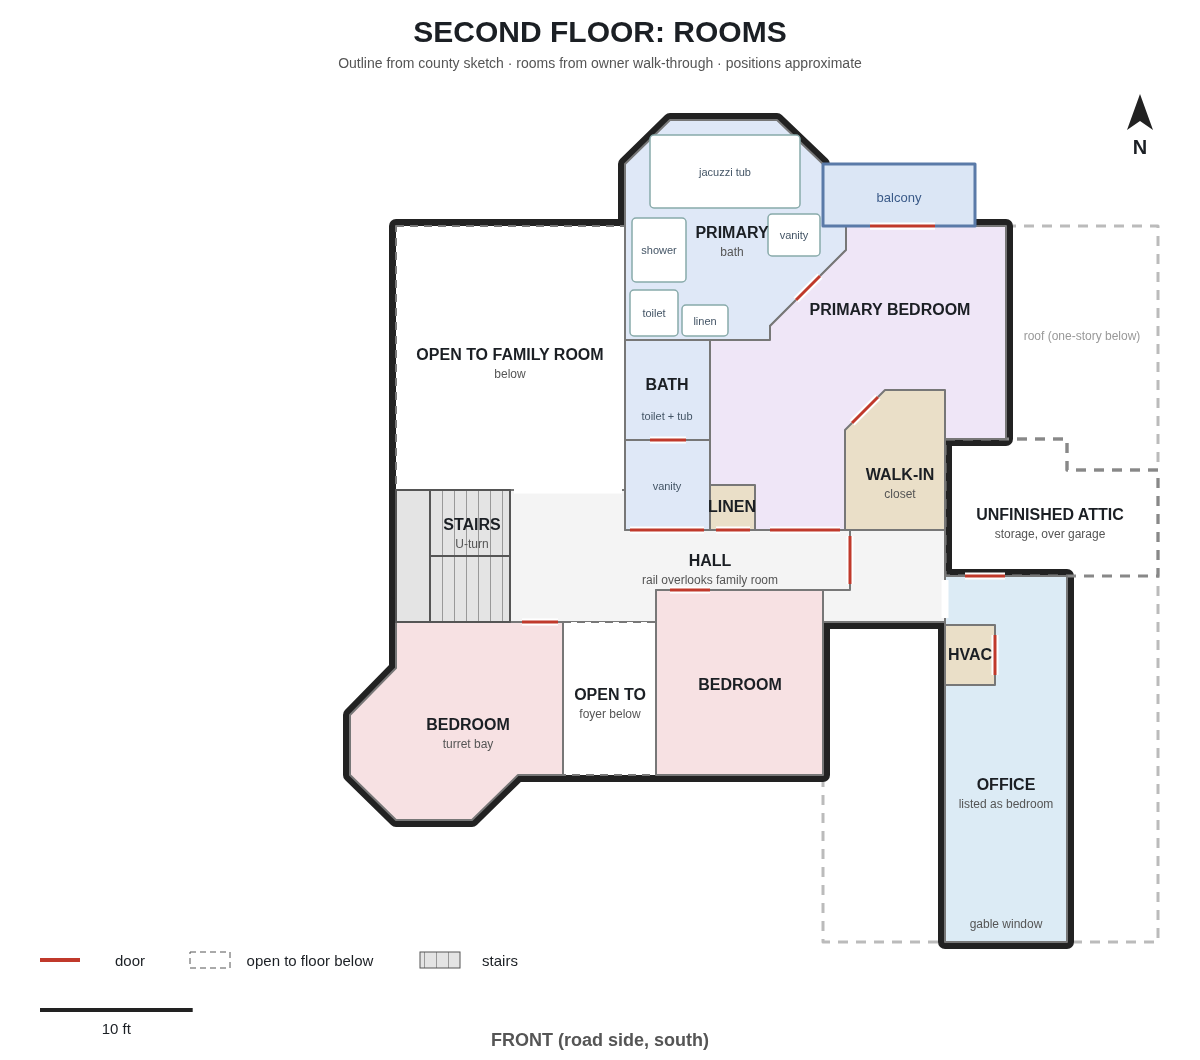
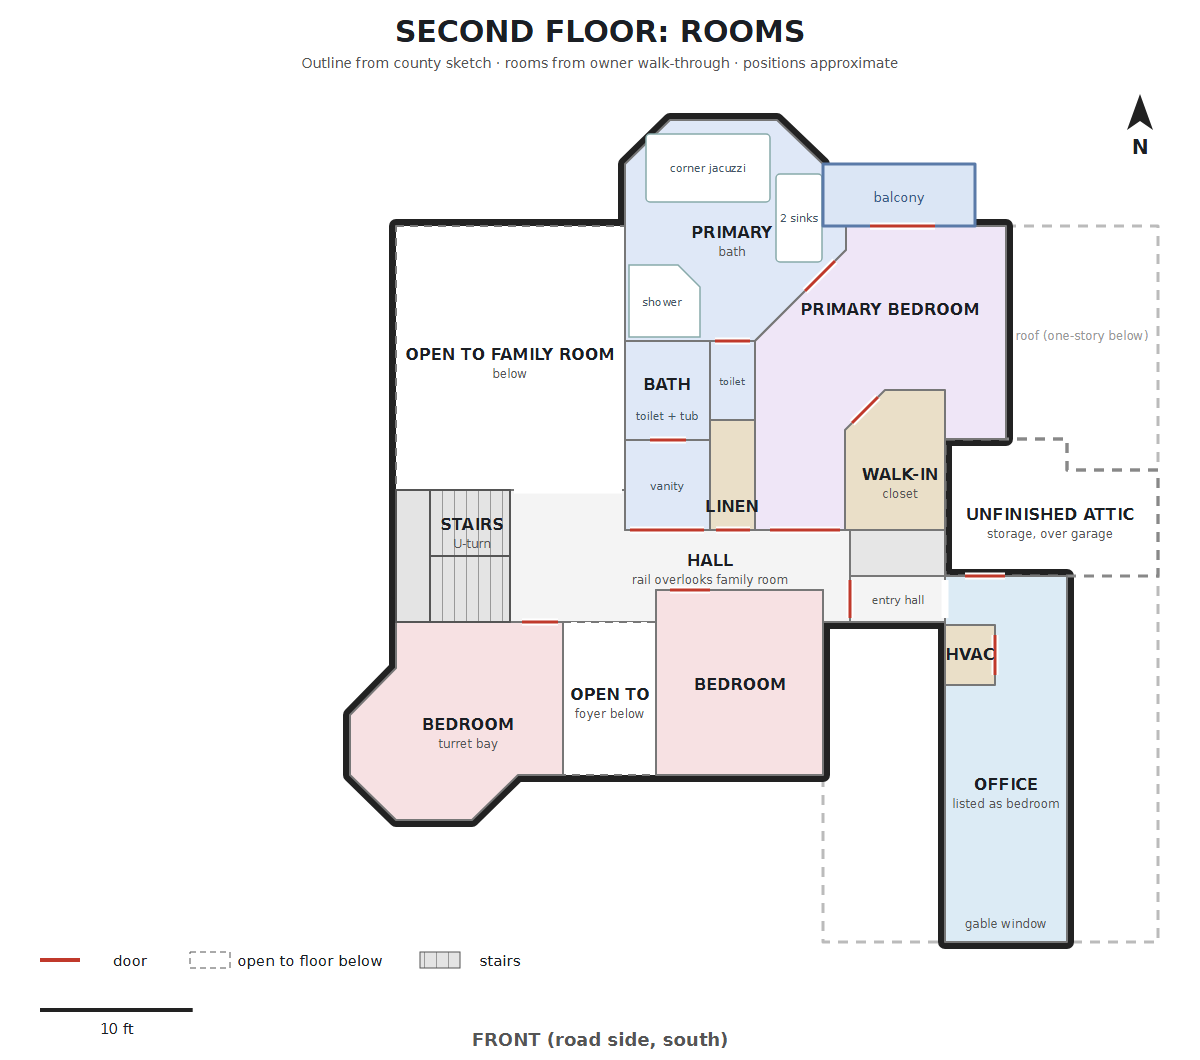
Second floor from Nov 25 photos: straight primary west wall, bath door on angled wall, toilet room, double vanity, narrow office entry hall; upstairs panel directory

diff --git a/index.html b/index.html
@@ -95,17 +95,17 @@
 <section id="floorplans">
   <h2>Floor plans</h2>
   <p>Outside walls traced to scale from the Greene County auditor's building sketch; rooms from the owner's walk-through, the robot vacuum's map and listing photos. North is up; the front of the house (road side) faces south. Room positions are approximate and still being corrected. Tick a layer to light those things up on the plans; tap a marker for its photo and notes.</p>
-  <div id="hm-app" data-v="202611220112">
+  <div id="hm-app" data-v="202611251430">
     <div class="hm-controls"><div id="hm-edit"></div><div id="hm-legend"></div><div id="hm-unplaced"></div></div>
     <div id="hm-floors"><p>Loading the plans…</p></div>
     <div id="hm-detail" hidden tabindex="-1"></div>
   </div>
   <noscript>
-    <h3>Main floor</h3><figure><img src="img/floorplan/main-rooms.png?v=202611220112" alt="Main floor room plan."></figure>
-    <h3>Second floor</h3><figure><img src="img/floorplan/second-rooms.png?v=202611220112" alt="Second floor room plan."></figure>
-    <h3>Basement</h3><figure><img src="img/floorplan/basement-rooms.png?v=202611220112" alt="Basement room plan."></figure>
+    <h3>Main floor</h3><figure><img src="img/floorplan/main-rooms.png?v=202611251430" alt="Main floor room plan."></figure>
+    <h3>Second floor</h3><figure><img src="img/floorplan/second-rooms.png?v=202611251430" alt="Second floor room plan."></figure>
+    <h3>Basement</h3><figure><img src="img/floorplan/basement-rooms.png?v=202611251430" alt="Basement room plan."></figure>
   </noscript>
-  <p class="sub">Source: <a href="img/floorplan/auditor-sketch.png">county auditor sketch</a> (all floors drawn on top of each other). Printable plans: <a href="img/floorplan/main-rooms.png?v=202611220112">main</a> · <a href="img/floorplan/second-rooms.png?v=202611220112">second</a> · <a href="img/floorplan/basement-rooms.png?v=202611220112">basement</a>.</p>
+  <p class="sub">Source: <a href="img/floorplan/auditor-sketch.png">county auditor sketch</a> (all floors drawn on top of each other). Printable plans: <a href="img/floorplan/main-rooms.png?v=202611251430">main</a> · <a href="img/floorplan/second-rooms.png?v=202611251430">second</a> · <a href="img/floorplan/basement-rooms.png?v=202611251430">basement</a>.</p>
 </section>
 
 <section id="panel">
@@ -153,7 +153,7 @@
   </ul>
 
   <figure>
-    <img src="img/floor-heat-shelly-wiring.png?v=202611220112" alt="Wiring diagram: panel black to L, heater lead 1 to O, panel white plus heater lead 2 plus a jumper to N joined in wire nut 1, panel bare copper plus heater ground braid in wire nut 2, SW empty, floor sensor capped.">
+    <img src="img/floor-heat-shelly-wiring.png?v=202611251430" alt="Wiring diagram: panel black to L, heater lead 1 to O, panel white plus heater lead 2 plus a jumper to N joined in wire nut 1, panel bare copper plus heater ground braid in wire nut 2, SW empty, floor sensor capped.">
     <figcaption>Floor heat zone wired to a Shelly 1PM Gen4 UL (120 V).</figcaption>
   </figure>
 
@@ -209,6 +209,6 @@
 <footer>
   Things that move with the owner (plugs, routers, sensors, test equipment) are deliberately not listed. No passwords or network details are kept on this page.
 </footer>
-<script src="assets/map.js?v=202611220112"></script>
+<script src="assets/map.js?v=202611251430"></script>
 </body>
 </html>

diff --git a/img/floorplan/second_rooms.py b/img/floorplan/second_rooms.py
@@ -5,29 +5,31 @@ exec('def poly('+src.split('\ndef poly(',1)[1].split('b=poly(porch')[0])   # pol
 R={
  "openfam":[(386,136),(615,136),(615,400),(386,400)],
  "stairs":[(386,400),(500,400),(500,532),(386,532)],
- "hall":[(500,400),(615,400),(615,440),(840,440),(840,500),(646,500),(646,532),(500,532)],
+ "hall":[(500,400),(615,400),(615,440),(840,440),(840,532),(813,532),(813,500),(646,500),(646,532),(500,532)],
  "openfoyer":[(553,532),(646,532),(646,685),(553,685)],
  "bedA":[(386,532),(553,532),(553,685),(508,685),(462,730),(386,730),(340,685),(340,625),(386,578)],
  "bedB":[(646,500),(813,500),(813,685),(646,685)],
- "bath":[(615,250),(700,250),(700,440),(615,440)],
- "linen":[(700,395),(745,395),(745,440),(700,440)],
- "pbath":[(615,74),(660,30),(767,30),(813,74),(813,136),(836,136),(836,160),(760,236),(760,250),(615,250)],
- "primary":[(836,136),(996,136),(996,349),(935,349),(935,440),(745,440),(745,395),(700,395),(700,250),(760,250),(760,236),(836,160)],
+ "bath":[(615,251),(700,251),(700,440),(615,440)],
+ "linen":[(700,330),(745,330),(745,440),(700,440)],
+ "wc":[(700,251),(745,251),(745,330),(700,330)],
+ "pbath":[(615,74),(660,30),(767,30),(813,74),(813,136),(836,136),(836,160),(745,251),(615,251)],
+ "primary":[(836,136),(996,136),(996,349),(935,349),(935,440),(745,440),(745,251),(836,160)],
  "wic":[(835,340),(875,300),(935,300),(935,440),(835,440)],
- "lhall":[(840,440),(935,440),(935,532),(813,532),(813,500),(840,500)],
+ "lhall":[(840,486),(935,486),(935,532),(840,532)],
+ "unk":[(840,440),(935,440),(935,486),(840,486)],
  "attic":[(935,349),(1057,349),(1057,380),(1148,380),(1148,486),(935,486)],
  "office":[(935,486),(1057,486),(1057,852),(935,852)],
  "hvac":[(935,535),(985,535),(985,595),(935,595)],
 }
 FILL={"openfam":"#ffffff","stairs":"#d9d9d9","hall":"#f4f4f4","openfoyer":"#ffffff","bedA":"#f7e1e3","bedB":"#f7e1e3",
  "bath":"#dfe8f7","linen":"#eadfc8","pbath":"#dfe8f7","primary":"#efe6f7","lhall":"#f4f4f4","attic":"#ffffff",
- "office":"#dcebf5","hvac":"#eadfc8","wic":"#eadfc8"}
+ "office":"#dcebf5","hvac":"#eadfc8","wic":"#eadfc8","wc":"#dfe8f7","unk":"#e6e6e6"}
 LBL={"openfam":("OPEN TO FAMILY ROOM","below",500,270),"stairs":("STAIRS","U-turn",462,440),
  "hall":("HALL","rail overlooks family room",700,476),"openfoyer":("OPEN TO","foyer below",600,610),
  "bedA":("BEDROOM","turret bay",458,640),"bedB":("BEDROOM","",730,600),
  "bath":("BATH","",657,300),"linen":("LINEN","",722,422),
  "pbath":("PRIMARY","bath",722,148),"primary":("PRIMARY BEDROOM","",880,225),"wic":("WALK-IN","closet",890,390),
- "lhall":("","",0,0),"attic":("UNFINISHED ATTIC","storage, over garage",1040,430),
+ "lhall":("","",0,0),"wc":("","",0,0),"unk":("","",0,0),"attic":("UNFINISHED ATTIC","storage, over garage",1040,430),
  "office":("OFFICE","listed as bedroom",996,700),"hvac":("HVAC","",960,570)}
 b=poly(gar,"none","#bbb",3,"10 8")
 b+=poly(bump,"none","#bbb",3,"10 8")+T(1072,250,"roof (one-story below)",12,"normal","#999")
@@ -41,9 +43,11 @@ b+=poly(R["stairs"],"url(#st)","#555",2)
 b+='<rect x="386" y="400" width="34" height="132" fill="#e4e4e4" stroke="#555" stroke-width="2"/>'
 b+='<line x1="420" y1="466" x2="500" y2="466" stroke="#555" stroke-width="2"/>'
 # primary-bath fixtures (small, approximate)
-fx=[((640,45,790,118),"jacuzzi tub"),((622,128,676,192),"shower"),((758,124,810,166),"vanity"),((620,200,668,246),"toilet"),((672,215,718,246),"linen")]
+fx=[((636,44,760,112),"corner jacuzzi"),((766,84,812,172),"2 sinks")]
 for (x1,y1,x2,y2),n in fx:
     b+=f'<rect x="{x1}" y="{y1}" width="{x2-x1}" height="{y2-y1}" fill="#fff" stroke="#8aa" stroke-width="1.5" rx="4"/>'+T((x1+x2)/2,(y1+y2)/2+4,n,11,"normal","#456")
+b+='<polygon points="619,175 668,175 690,197 690,247 619,247" fill="#fff" stroke="#8aa" stroke-width="1.5"/>'+T(652,216,"shower",11,"normal","#456")
+b+=T(722,295,"toilet",10,"normal","#456")+T(888,514,"entry hall",11,"normal","#555")
 # hall-bath split: vanity (south) | door | toilet + tub (north)
 b+='<line x1="615" y1="350" x2="700" y2="350" stroke="#777" stroke-width="2"/>'+gap(640,350,676,350,"door")
 b+=T(657,330,"toilet + tub",11,"normal","#456")+T(657,400,"vanity",11,"normal","#456")
@@ -54,11 +58,12 @@ b+=gap(706,440,740,440,"door")        # linen
 b+=gap(760,440,830,440,"door")        # primary double doors
 b+=gap(660,500,700,500,"door")        # bedroom across from the bath
 b+=gap(512,532,548,532,"door")        # bedroom at top of stairs
-b+=gap(840,446,840,494,"door")        # doorway to little hall
+b+=gap(840,490,840,528,"door")        # door from the hall into the office entry hall (2026-11-25 photos)
 b+=gap(935,490,935,528)               # open doorway (no door) into the office over the garage
 b+=gap(985,545,985,585,"door")        # HVAC closet, west wall south of the entry
 b+=gap(955,486,995,486,"door")        # small attic door
-b+=gap(786,210,810,186,"door")        # angled-corner doorway into primary bath
+b+=gap(795,201,825,171,"door")        # primary bath door, NE part of the angled wall
+b+=gap(705,251,740,251,"door")        # toilet room, second door beside the bath entry
 b+=gap(860,136,925,136,"door")        # glass double doors to the balcony
 b+=gap(842,333,868,307,"door")        # walk-in closet door on its angled wall
 b+=T(996,838,"gable window",12,"normal","#555")
@@ -80,4 +85,4 @@ svg=(f'<svg xmlns="http://www.w3.org/2000/svg" viewBox="0 0 {W} {H}" width="{W}"
      +f'<g transform="translate({W-60},130)"><polygon points="0,-36 13,0 0,-9 -13,0" fill="#222"/>'+T(0,24,"N",20)+'</g>'
      +T(W/2,H-14,"FRONT (road side, south)",18,"bold","#555")+'</svg>')
 open('second-rooms.svg','w').write(svg)
-open('/tmp/claude-1000/-home-mike/932c57ac-5002-4f9b-acec-41c9464b732f/scratchpad/vac/sr.html','w').write('<html><body style="margin:0">'+svg+'</body></html>')
+if 0: open('/tmp/claude-1000/-home-mike/932c57ac-5002-4f9b-acec-41c9464b732f/scratchpad/vac/sr.html','w').write('<html><body style="margin:0">'+svg+'</body></html>')
